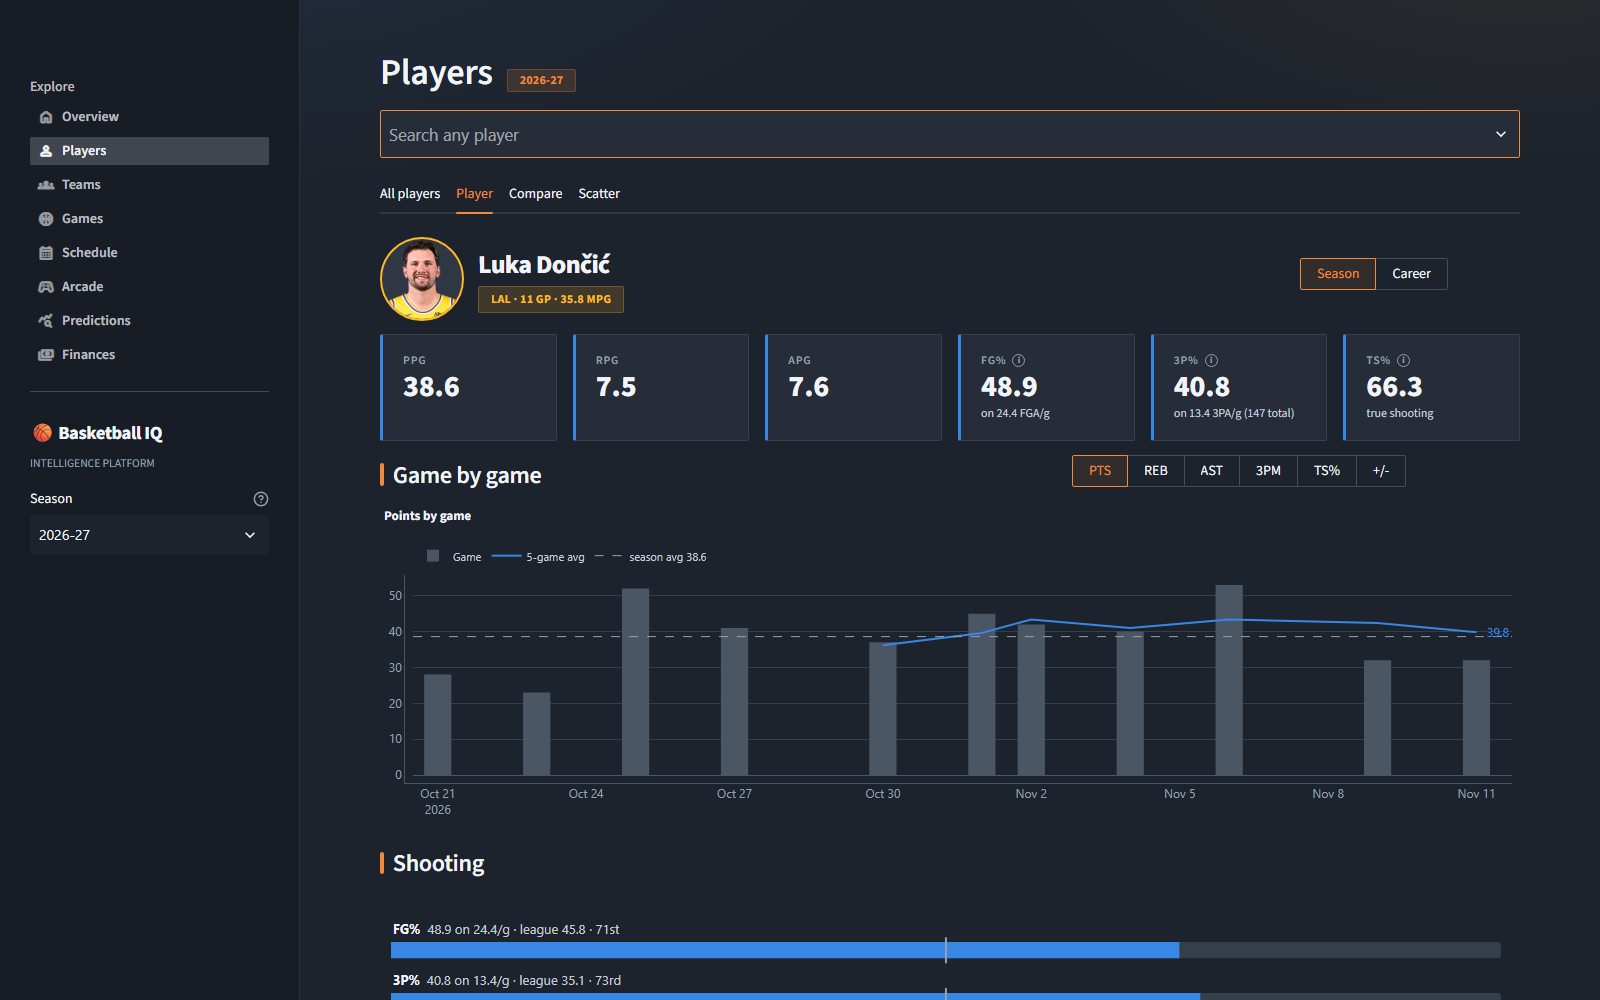
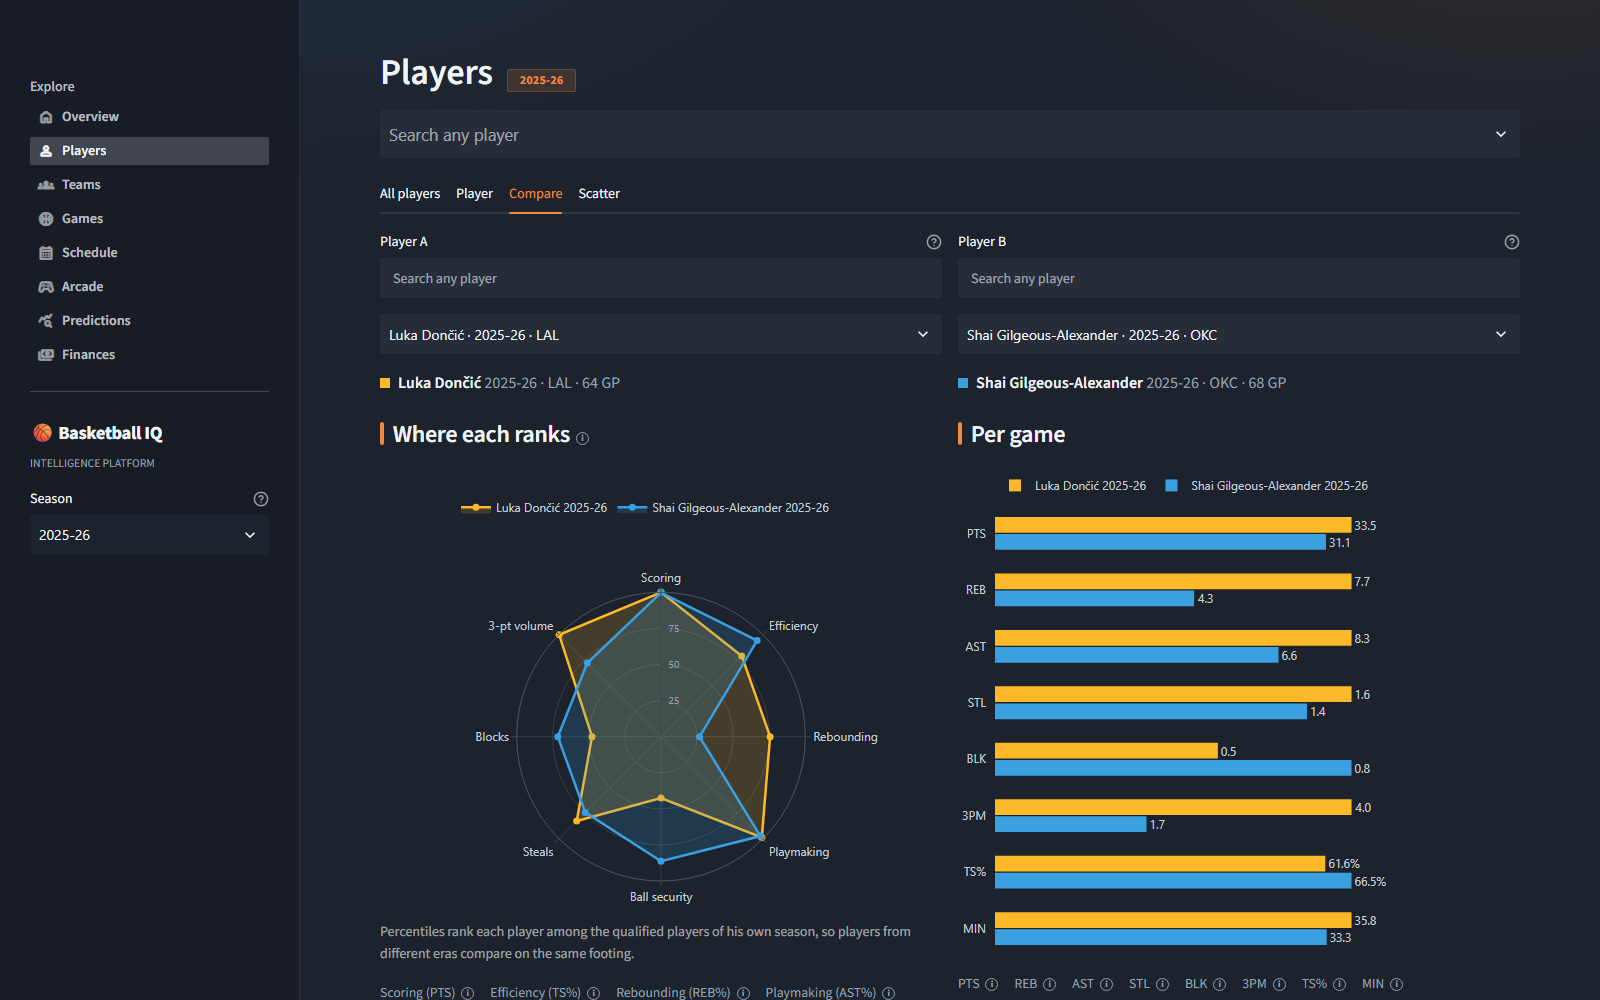
Use the Compare tab for the Basketball screenshot
Early in the season the Player page's game-by-game chart is sparse. The
Compare tab on the full 2025-26 season shows the radar and per-game bars.

diff --git a/src/portfolio.js b/src/portfolio.js
@@ -69,7 +69,7 @@ export const projects = [
     featured: true,
     image: shotBasketball,
     imageAlt:
-      'Basketball IQ Players page showing Luka Doncic\'s 2026-27 season: stat tiles and a points-by-game chart',
+      'Basketball IQ Compare tab: the 2025-26 seasons of Luka Doncic and Shai Gilgeous-Alexander on a percentile radar and side-by-side per-game bars',
     sourceCode: 'https://github.com/Ajaiah-D/basketball-intelligence-platform',
     livePreview: 'https://basketball-intelligence-platform.streamlit.app/'
   },
